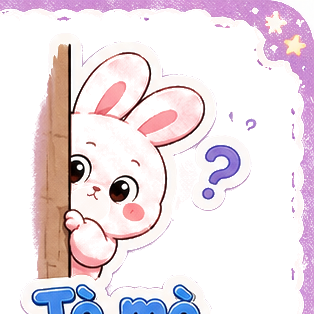
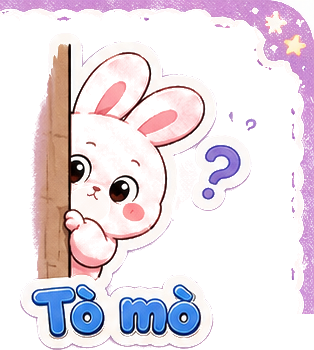
fix: prevent duplicate pasted images and refine stickers

diff --git a/src/features/chat/services/pasteAttachmentDraft.test.js b/src/features/chat/services/pasteAttachmentDraft.test.js
@@ -91,6 +91,8 @@ test('web paste stages attachments and leaves plain text to the controlled input
   assert.doesNotMatch(pasteSource, /handleSendFile|handleSendMessage|navigator\.clipboard/);
   assert.match(appSource, /onKeyDown=\{handleMessageInputKeyDown\}/);
   assert.match(appSource, /onClick=\{handleComposerSubmit\}/);
+  assert.equal((appSource.match(/onPasteCapture=\{handleMessagePaste\}/g) || []).length, 0);
+  assert.equal((appSource.match(/onPaste=\{handleMessagePaste\}/g) || []).length, 1);
 });
 
 test('only the explicit composer submit flushes the staged paste queue', () => {

diff --git a/src/app/App.jsx b/src/app/App.jsx
@@ -13013,7 +13013,7 @@ function App() {
       {/* ==========================================================================
          CỘT 3: CHAT MAIN AREA (Khung chat chính)
          ========================================================================== */}
-      <section className="chat-main" onPasteCapture={handleMessagePaste} onPaste={handleMessagePaste}>
+      <section className="chat-main">
         {/* Header khung chat */}
         <ConversationErrorBoundary
           key={`${activeChat.id}:header`}

diff --git a/dist/index.html b/dist/index.html
@@ -16,7 +16,7 @@
 
     <!-- FontAwesome for Premium Icons -->
     <link rel="stylesheet" href="https://cdnjs.cloudflare.com/ajax/libs/font-awesome/6.4.0/css/all.min.css">
-  <script type="module" crossorigin src="/assets/index-BBGQFgyq.js"></script>
+  <script type="module" crossorigin src="/assets/index-Ck__JN8n.js"></script>
   <link rel="stylesheet" crossorigin href="/assets/index-D7j7EWJs.css">
 </head>
 

diff --git a/docs/CHANGELOG.md b/docs/CHANGELOG.md
@@ -6,6 +6,38 @@ Khong ghi mat khau, token, cookie, khoa API, du lieu ca nhan hoac gia tri bi mat
 
 ## Lich su thay doi
 
+## 2026-09-17-03 - Sua Ctrl+V anh bi them hai lan vao danh sach cho
+
+- Thoi gian: 2026-09-17 (Asia/Saigon)
+- Loai: Sua loi | Web | UX | Kiem thu | Tai lieu
+- Trang thai: Hoan tat local; chua deploy
+- Muc tieu: Moi lan dan nhanh mot anh bang `Ctrl+V` chi tao mot muc cho gui, khong tu dong nhan thanh hai anh giong nhau.
+- Pham vi: Chi ChatUI web composer/paste va regression test; giu nguyen file picker gui ngay, luong upload, Tinode, backend, mobile va cac attachment khac.
+- File da thay doi: `src/app/App.jsx`, `src/features/chat/services/pasteAttachmentDraft.test.js`, `dist/index.html`, `docs/CHANGELOG.md`.
+- Noi dung: Bo handler paste trung tren container `chat-main` (capture/bubble), giu mot diem nhan paste tai o nhap de tranh cung mot native paste event duoc queue lai hai lan. Khong doi `handleSendFile`, payload Tinode hay co che submit draft.
+- Quyet dinh ky thuat: Chon chan duplicate o ranh gioi event cua composer, khong dedupe mu quang trong hang doi de van cho phep user paste hai file that su giong nhau o hai lan khac nhau.
+- Database/API/cau hinh: Khong co migration, endpoint, schema, secret hoac cau hinh.
+- Kiem thu: `node --test --test-concurrency=1 src/features/chat/services/pasteAttachmentDraft.test.js` dat 9/9; `npm run test:frontend -- --test-concurrency=1` dat 412/412; `npm run lint` exit 0 voi warning legacy/vendor da co; `npm run build:production` thanh cong; `git diff --check` khong co loi noi dung, chi canh bao chuan hoa LF/CRLF.
+- Rui ro con lai: Chua UAT Ctrl+V tren browser local vi browser bridge khong kha dung trong phien nay.
+- Viec tiep theo: Hard refresh web va thu Ctrl+V mot anh, nhieu anh, van ban tai caret; deploy chi khi UAT dat.
+- Commit/PR: Chua tao.
+
+## 2026-09-17-02 - Sua crop sticker pink-bunny bi lo anh ke ben
+
+- Thoi gian: 2026-09-17 (Asia/Saigon)
+- Loai: Sua loi | Web | Kiem thu | Tai lieu
+- Trang thai: Hoan tat local; chua deploy
+- Muc tieu: Dam bao sticker pink-bunny trong picker chi hien dung artwork cua no, khong lo caption hoac vien anh cua sticker ke ben.
+- Pham vi: Chi asset PNG cua pack `puppysoft/pink-bunny`; khong doi StickerPicker, luong gui tin, Tinode, Chatmgt, API hoac backend.
+- File da thay doi: `public/stickers/puppysoft/pink-bunny-1.png`, `pink-bunny-2.png`, `pink-bunny-3.png`, `pink-bunny-4.png`, `pink-bunny-5.png`, `pink-bunny-7.png`, `pink-bunny-8.png`, `pink-bunny-9.png`, `pink-bunny-10.png`, `pink-bunny-11.png`, `pink-bunny-12.png`, va `docs/CHANGELOG.md`.
+- Noi dung: Cat bo cac manh artwork/caption bi tran o dau crop cua 5, 7-12; phuc hoi phan caption o cuoi cua 1, 3, 4 tu cac manh anh ke ben trong sprite crop. `pink-bunny-2` khong co source goc trong repo/Git history nen da cat bo chu bi cut va ve lai caption `Tu ky` co vien/gradient tim tuong thich, tranh de lai chu cut trong thumbnail.
+- Quyet dinh ky thuat: Chi thay binary asset, giu nguyen kich thuoc/cach render va luong chon-gui sticker de tranh regression ngoai pham vi; phan chu `pink-bunny-2` la fallback asset-local co chu ro rang, khong dung cho logic tim kiem hay transport.
+- Database/API/cau hinh: Khong co migration, thay doi API, secret hoac cau hinh.
+- Kiem thu: `node --test --test-concurrency=1 src/features/chat/services/stickerCatalog.test.js` dat 6/6; `npm run test:frontend -- --test-concurrency=1` dat 412/412; `npm run lint` exit 0 voi cac warning legacy da co; `npm run build:production` thanh cong; `git diff --check` khong co loi noi dung, chi canh bao chuan hoa LF/CRLF cua changelog.
+- Rui ro con lai: Caption `pink-bunny-2` la phan ve lai fallback, co the can thay bang source goc neu tim duoc; browser UAT chua chay vi browser bridge local khong kha dung.
+- Viec tiep theo: Neu co sprite source goc, uu tien thay fallback caption cua `pink-bunny-2`; sau do UAT picker tren browser local va deploy theo quy trinh neu can.
+- Commit/PR: Chua tao.
+
 ## 2026-09-17-01 - Sua loi bind nhom Tinode khi nguoi xem khong phai chu nhom
 
 - Thoi gian: 2026-09-17 (Asia/Saigon)
